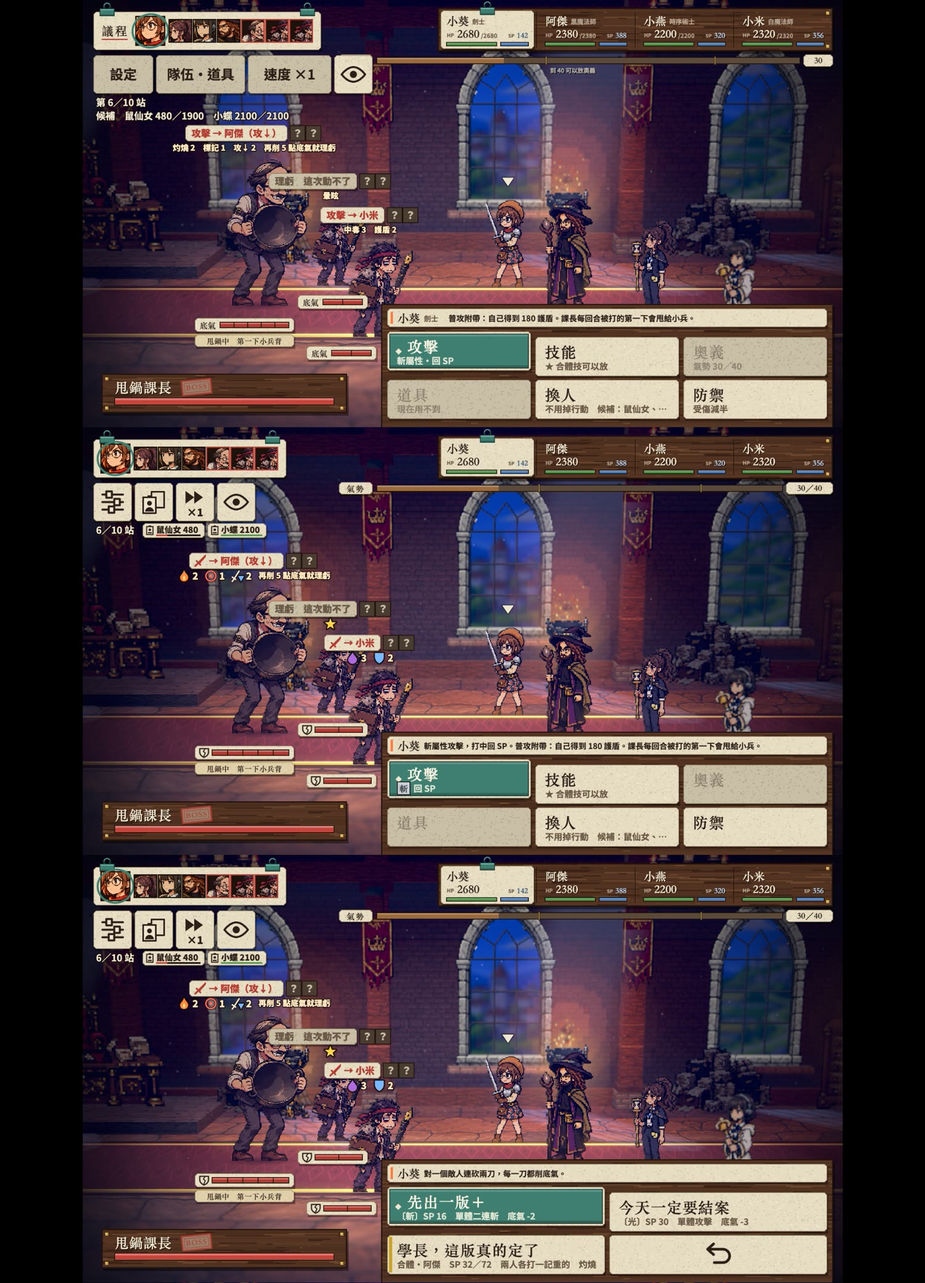
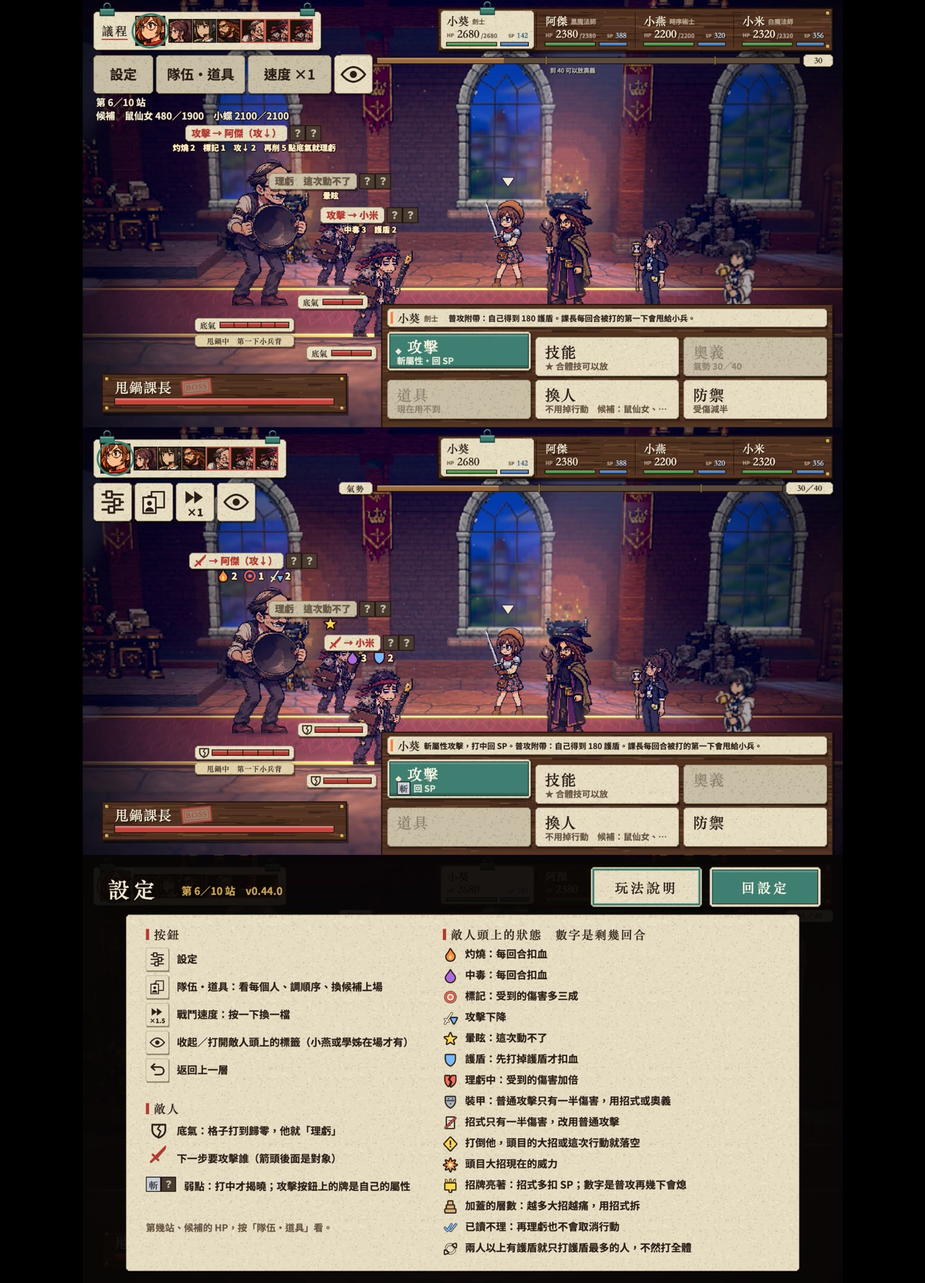
v0.44.0 狀態全部改圖示、設定加圖示說明頁；戰鬥畫面不顯示站數與候補

Changed region(s): [[0.092, 0.6562, 0.92, 1.0], [0.1227, 0.4062, 0.368, 0.4688]]

diff --git a/js/game.js b/js/game.js
@@ -588,15 +588,15 @@ function drawTip() { if (!tipNow || phase !== 'command') return; const k = Math.
   c.save(); c.globalAlpha = k; skin.paper(X, Y, Wd, Hh, { clips: [X + 60] }); c.fillStyle = RED; c.fillRect(X + 22, Y + 22, 7, 30); text(tipNow.title, X + 42, Y + 47, { px: 28, w: 900, fam: SERIF, col: INK, ls: 4 }); if (!LEAN) text('第一次遇到', X + Wd - 24, Y + 44, { px: 17, w: 700, align: 'right', col: INK2 });
   rows.forEach((l, i) => text(l, X + 28, Y + 86 + i * 32, { px: 22, w: 700, col: INK })); c.restore(); }
 // 敵方意圖：輪到玩家下指令時，每個敵人頭上貼一張小紙條寫下一步（攻擊誰、補誰、蓄力、大招），底下一行是身上的狀態與還剩幾回合。內容來自 rules.js 的 intent()，跟實際行動一致
-function drawIntents() { const placed = [], blind = !R.canSense(state), quiet = !blind && !!PREF.eyeOff, edge = LEAN ? Math.max(blind ? 340 : 444, benchChips(false) + 8) : blind ? 640 : 744; for (const f of R.foes(state)) { const it0 = R.intent(state, f); if (!it0 || (quiet && it0.kind !== 'ult')) continue; const hid = blind && it0.kind !== 'ult' && it0.kind !== 'stun', it = hid ? { kind: 'hid' } : blind && it0.kind === 'ult' ? { kind: 'ult', locks: it0.locks, lockN: it0.lockN, blind: true } : it0; const [px, py] = S.proj(f, 1), who = t => t ? (DEFS[t].enemy ? NAME[t] : DEFS[t].name) : '隨機';
+function drawIntents() { const placed = [], blind = !R.canSense(state), quiet = !blind && !!PREF.eyeOff, edge = LEAN ? (blind ? 340 : 444) : blind ? 640 : 744; for (const f of R.foes(state)) { const it0 = R.intent(state, f); if (!it0 || (quiet && it0.kind !== 'ult')) continue; const hid = blind && it0.kind !== 'ult' && it0.kind !== 'stun', it = hid ? { kind: 'hid' } : blind && it0.kind === 'ult' ? { kind: 'ult', locks: it0.locks, lockN: it0.lockN, blind: true } : it0; const [px, py] = S.proj(f, 1), who = t => t ? (DEFS[t].enemy ? NAME[t] : DEFS[t].name) : '隨機';
     const act = k => ({ atk: `攻擊${it.smoke ? '＋嗆煙' : ''} → ${who(it.target)}`, drain: `攻擊＋扣 SP${it.late ? '＋過號' : ''} → ${who(it.target)}`, heal: `補血${it.hype ? '＋打氣' : ''} → ${who(it.target)}` })[k], xs = (it.pack ? `（結伴　攻擊 ＋${it.pack * 20}%）` : '') + (it.hyped ? '（打氣　攻擊 ＋30%）' : '') + (it.grudge ? `（記了 ${it.grudge} 筆　攻擊 ＋${it.grudge * 25}%）` : '');
     const main = { phase2: '血剩一半：下一步變身（第二階段）', ward: `上護盾 → ${who(it.target)}`, notice: `補件通知：點名${who(it.target)}（下一次只打他）`, atk: (it.re ? '責任重新分配：' : '') + (it.heavy ? '重擊' : '攻擊') + (it.smoke ? '＋嗆煙' : it.hex ? '＋' + it.hex : '') + ` → ${who(it.target)}` + xs + (it.then ? `（${it.then}）` : ''), drain: act('drain') + xs, aoe: (it.re ? '責任重新分配：' : '') + '攻擊全體' + (it.hex ? '＋' + it.hex : ''), heal: act('heal'), charge: '下一步：蓄力', stun: '理虧　這次動不了',
       ult: it.blind ? '蓄力中' + (it.locks ? `（鎖還剩 ${it.locks.length} 個）` : '') : it.locks ? `大招：打全體（鎖還剩 ${it.locks.length} 個）` : it.wok ? `大招：只打${DEFS[it.wok].name}（他防禦就彈回去）` : it.proj || it.lost ? (it.lost ? '大招落空（專案沒人做）' : `大招：打全體（打倒${NAME[it.proj]}可阻止）`) : it.pow != null ? `大招：打全體（威力 ${Math.round(it.pow * 100)}%）` : '大招：打全體',
       echo: it.lost ? `附議落空（${NAME[it.echo]}已倒）` : `附議${NAME[it.echo]}：${act(it.act)}`, hid: '' }[it.kind] + (it.weak ? '（攻↓）' : '');
-    const col = it.kind === 'heal' ? '#1f6a5c' : it.kind === 'stun' || it.kind === 'hid' ? INK2 : RED, hot = it.kind === 'ult' || it.kind === 'charge' || it.kind === 'phase2', wkn = knownWeak(f), wkAll = blind || quiet ? [] : R.weakOf(state, f), cw = wkAll.length * 40 + (wkAll.length ? 10 : 0), sw = LEAN && !hid && (it.kind === 'atk' || it.kind === 'aoe') && main.startsWith('攻擊') ? 34 : 0, mainT = sw ? main.slice(2).trimStart() : main, w = mw(mainT, 24, 900) + 30 + sw, x0q = Math.max(8, Math.min(W - w - cw - 8, px - (w + cw) / 2)); let x = x0q; const minY = x < edge ? (LEAN ? 292 : 268) : 96, hitQ = () => placed.some(q => x < q[0] + q[2] + 8 && x + w + cw + 8 > q[0] && y < q[1] + 70 && y + 70 > q[1]); let y = Math.max(minY, py - 86);      // 左上角有一排按鈕（到 y 258），紙條不要疊上去
+    const col = it.kind === 'heal' ? '#1f6a5c' : it.kind === 'stun' || it.kind === 'hid' ? INK2 : RED, hot = it.kind === 'ult' || it.kind === 'charge' || it.kind === 'phase2', wkn = knownWeak(f), wkAll = blind || quiet ? [] : R.weakOf(state, f), cw = wkAll.length * 40 + (wkAll.length ? 10 : 0), sw = LEAN && !hid && (it.kind === 'atk' || it.kind === 'aoe') && main.startsWith('攻擊') ? 34 : 0, mainT = sw ? main.slice(2).trimStart() : main, w = mw(mainT, 24, 900) + 30 + sw, x0q = Math.max(8, Math.min(W - w - cw - 8, px - (w + cw) / 2)); let x = x0q; const minY = x < edge ? (LEAN ? 250 : 268) : 96, hitQ = () => placed.some(q => x < q[0] + q[2] + 8 && x + w + cw + 8 > q[0] && y < q[1] + 70 && y + 70 > q[1]); let y = Math.max(minY, py - 86);      // 左上角有一排按鈕（到 y 258），紙條不要疊上去
     while (hitQ() && y > minY + 4) y = Math.max(minY, y - 24); for (let k = 0; k < 8 && hitQ(); k++) y += 24; if (hitQ()) { x = Math.max(x, edge + 8); y = Math.max(96, py - 86); while (hitQ() && y > 100) y -= 24; }      // 左邊擠不下（鏡像內戰一次五個敵人）：往右移到按鈕旁邊再往上找空位
     placed.push([x, y, w + cw]);      // 紙條不互相蓋住
-    if (!hid) { skin.paper(x, y, w, 40, { old: it.kind === 'stun' }); if (hot) { c.fillStyle = '#6e1c16'; c.fillRect(x + 3, y + 3, w - 6, 34); } if (sw) { c.save(); c.strokeStyle = c.fillStyle = hot ? '#fff0e0' : col; c.lineCap = 'round'; c.lineJoin = 'round'; c.beginPath(); c.moveTo(x + 22, y + 24); c.lineTo(x + 38, y + 8); c.lineTo(x + 41, y + 5); c.lineTo(x + 40, y + 10); c.lineTo(x + 25, y + 27); c.closePath(); c.lineWidth = 2.5; c.stroke(); c.fill(); c.lineWidth = 4; c.beginPath(); c.moveTo(x + 18, y + 20); c.lineTo(x + 28, y + 30); c.stroke(); c.lineWidth = 4.5; c.beginPath(); c.moveTo(x + 15, y + 33); c.lineTo(x + 21, y + 27); c.stroke(); c.restore(); } text(mainT, x + 15 + sw, y + 29, { px: 24, w: 900, col: hot ? '#fff0e0' : col }); }
+    if (!hid) { skin.paper(x, y, w, 40, { old: it.kind === 'stun' }); if (hot) { c.fillStyle = '#6e1c16'; c.fillRect(x + 3, y + 3, w - 6, 34); } if (sw) swordGlyph(x, y, hot ? '#fff0e0' : col); text(mainT, x + 15 + sw, y + 29, { px: 24, w: 900, col: hot ? '#fff0e0' : col }); }
     wkAll.forEach((_, q) => typeChip(wkn[q] || null, x + w + 8 + q * 40, y + 2, 36));      // 弱點兩格：知道的寫屬性，不知道的是「？」
     if (it.locks) { const n0 = it.lockN, lx = x + (w + cw) / 2 - n0 * 23; for (let q = 0; q < n0; q++) { const t = it.locks[q]; if (t) typeChip(t, lx + q * 46, y - 48, 40); else { c.fillStyle = '#1c120c'; c.fillRect(lx + q * 46 - 2, y - 50, 44, 44); c.fillStyle = '#2f5c50'; c.fillRect(lx + q * 46, y - 48, 40, 40); text('✓', lx + q * 46 + 20, y - 18, { px: 30, w: 900, align: 'center', col: '#bff0dc' }); } } }
     const tags = []; if (state.burn[f] > 0) tags.push(`灼燒 ${state.burn[f]}`); if (state.mark[f] > 0) tags.push(`標記 ${state.mark[f]}`); if (state.atkDown[f] > 0) tags.push(`攻↓ ${state.atkDown[f]}`); if (state.poison[f] && state.poison[f].n > 0) tags.push(`中毒 ${state.poison[f].n}`); if (f !== 'boss' && state.stun[f]) tags.push('暈眩'); if (state.fward[f] > 0) tags.push(`護盾 ${state.fward[f]}`); if (it.re) tags.push('前排兩人以上有護盾 → 只打護盾最多的人；不然打全體'); if (f !== 'boss' && R.KINDS[state.kind[f]].armor) tags.push('裝甲'); if (f !== 'boss' && R.KINDS[state.kind[f]].dull) tags.push('招式減半');
@@ -605,7 +605,7 @@ function drawIntents() { const placed = [], blind = !R.canSense(state), quiet = 
     if (f === 'boss' && state.L.fee) tags.push(state.sign > 0 ? `招牌亮著：招式多扣 ${state.L.fee} SP（普攻再 ${state.sign} 下打熄）` : '招牌熄了'); if (f === 'boss' && state.L.layers) tags.push(`加蓋 ${state.layers} 層：大招 ${Math.round(R.roofPow(state) * 100)}%，用招式打他拆一層`);
     if (f === 'boss' && !state.broken && state.shield > 0) tags.push(`再削 ${state.shield} 點底氣就理虧`); if (f === 'boss' && state.broken) tags.push('理虧中：受傷加倍'); if (f === 'boss' && run.ot >= 5 && state.stunned1) tags.push('已讀不理：再理虧也不會取消行動');
     if (tags.length && !quiet && !LEAN) { const tl = tags.join('　'), tw = mw(tl, 20, 900); text(tl, Math.max(8 + tw / 2, Math.min(W - 8 - tw / 2, x + (w + cw) / 2)), y + 64, { px: 20, w: 900, align: 'center', col: '#ffe9c0', stroke: 'rgba(20,10,4,.85)', sw: 5 }); }
-    if (tags.length && !quiet && LEAN) { const ST = { 灼燒: 'burn', 標記: 'mark', '攻↓': 'down', 中毒: 'poison', 暈眩: 'stun', 護盾: 'ward' }, parts = tags.map(s => { const m = /^(\S+?)(?: (\d+))?$/.exec(s); return m && ST[m[1]] ? { ic: ST[m[1]], n: m[2] || '', w: 32 + (m[2] ? mw(m[2], 24, 900) + 5 : 0) } : { s, w: mw(s, 20, 900) }; }), tw = parts.reduce((a, q) => a + q.w, 0) + 16 * (parts.length - 1), o = { px: 20, w: 900, col: '#ffe9c0', stroke: 'rgba(20,10,4,.85)', sw: 5 }; let qx = Math.max(8, Math.min(W - 8 - tw, x + (w + cw) / 2 - tw / 2));
+    if (tags.length && !quiet && LEAN) { const parts = tags.map(tagPart).filter(Boolean), tw = parts.reduce((a, q) => a + q.w, 0) + 16 * (parts.length - 1), o = { px: 20, w: 900, col: '#ffe9c0', stroke: 'rgba(20,10,4,.85)', sw: 5 }; let qx = Math.max(8, Math.min(W - 8 - tw, x + (w + cw) / 2 - tw / 2));
       for (const q of parts) { if (q.ic) { stIcon(q.ic, qx, y + 42); if (q.n) text(q.n, qx + 36, y + 67, { ...o, px: 24 }); } else text(q.s, qx, y + 64, o); qx += q.w + 16; } } }
   // 我方每個人頭上的狀態（護盾、再生、攻擊提升、嗆到、背鍋、吸引攻擊）
   for (const h of R.FRONT) { if (!R.alive(state, h)) continue; const ls = []; if (state.wok === h && state.charging) ls.push(['背鍋中：防禦就彈回去', '#ffcf8a']); if (state.ward[h] > 0) ls.push([`護盾 ${state.ward[h]}`, '#9af0ff']); if (state.up[h] > 0) ls.push([`攻↑ ${state.up[h]}`, '#ffb0d0']); if (state.regen[h] && state.regen[h].n > 0) ls.push([`再生 ${state.regen[h].n}`, '#a8f0b0']); if (R.smoked(state, h)) ls.push(['嗆到：普攻減半', '#dfe8b8']); if (state.hmark[h] > 0) ls.push([`列管 ${state.hmark[h]}：受傷 ＋30%`, '#ffb0a0']); if (state.late[h]) ls.push(['過號：下回合最後才動', '#ffb0a0']); if (state.hpoison[h] && state.hpoison[h].n > 0) ls.push([`中毒 ${state.hpoison[h].n}`, '#b8e07a']); if (state.guardian === h) ls.push(['吸引攻擊中', '#9af0ff']);
@@ -852,7 +852,7 @@ const refreshPanel = () => { const f = focus; menu = { kind: 'panel', items: pan
 // 行程表右上、戰鬥左上各一顆「設定」。開關集中在這一頁、按鈕放大（原本的小開關在手機上只有 20px 高）；另外可以手動存檔、回到主畫面（進度留著）
 let conf = false, confAsk = false, confMsg = '', confHelp = false;
 const saveInfo = () => { try { const d = JSON.parse(localStorage.getItem(SAVE_KEY) || 'null'); if (!d || !d.at) return '還沒有存檔'; const x = new Date(d.at), p = n => String(n).padStart(2, '0'); return `上次存檔 ${p(x.getHours())}:${p(x.getMinutes())}`; } catch (e) { return ''; } };
-function confItems() { if (confHelp) return [{ label: '回設定', back: true, close: true, go: () => { confHelp = false; menu = { kind: 'conf', items: confItems() }; focus = 0; } }]; const fight = inBattle(), re = () => { menu = { kind: 'conf', items: confItems() }; focus = Math.min(focus, menu.items.length - 1); }, tog = (k, f) => () => { PREF[k] = !PREF[k]; PREF.set = true; savePref(); if (f) f(); uiSound('ok'); confAsk = false; re(); };
+function confItems() { if (confHelp) return [{ label: '回設定', back: true, close: true, go: () => { confHelp = false; menu = { kind: 'conf', items: confItems() }; focus = 0; } }, { label: confHelp === 'icons' ? '玩法說明' : '圖示說明', go: () => { confHelp = confHelp === 'icons' ? true : 'icons'; uiSound('ok'); menu = { kind: 'conf', items: confItems() }; focus = 1; } }]; const fight = inBattle(), re = () => { menu = { kind: 'conf', items: confItems() }; focus = Math.min(focus, menu.items.length - 1); }, tog = (k, f) => () => { PREF[k] = !PREF[k]; PREF.set = true; savePref(); if (f) f(); uiSound('ok'); confAsk = false; re(); };
   return [{ label: '聲音', val: PREF.mute ? '關' : '開', on: !PREF.mute, note: '配樂和音效', go: tog('mute', () => { master.gain.value = PREF.mute ? 0 : .9; }) },
     { label: '畫質', val: PREF.low ? '省電' : '一般', on: !PREF.low, note: '手機發燙或畫面會卡，就改省電', go: tog('low', applyQuality) },
     { label: '戰鬥速度', val: `×${SPEEDS[PREF.spd || 0]}`, on: true, note: '戰鬥演出速度，按一下換下一檔', go: () => { PREF.spd = ((PREF.spd || 0) + 1) % SPEEDS.length; savePref(); uiSound('ok'); confAsk = false; re(); } },
@@ -860,7 +860,7 @@ function confItems() { if (confHelp) return [{ label: '回設定', back: true, c
     { label: '立繪對話', val: PREF.noTalk ? '不演' : '要演', on: !PREF.noTalk, note: '開場、同事加入和離隊時的對話', go: tog('noTalk') },
     { label: '現在存檔', val: confMsg || saveInfo(), on: true, save: true, note: `存在第 ${slotNo() + 1} 個存檔位。平常會自動存：每到一站、戰鬥中每下一個指令`, go: () => { if (fight) saveBattle(); else saveGame(); confMsg = '存好了'; confAsk = false; snd(now, 'card', .6); re(); } },
     confAsk ? { label: '確定回主畫面', val: '再按一次', on: true, warn: true, note: '進度已經存好。下次在主畫面按「繼續上班」，從現在這裡接著玩', go: backToTitle } : { label: '回到主畫面', val: '', on: true, note: '會先存檔再回去；這一趟不會不見', go: () => { confAsk = true; uiSound('move'); re(); } },
-    { label: '玩法說明', val: '', on: true, note: '怎麼打、畫面上的名詞是什麼意思', go: () => { confHelp = true; confAsk = false; uiSound('ok'); re(); } },
+    { label: '玩法說明', val: '', on: true, note: '怎麼打、畫面上的名詞和圖示是什麼意思', go: () => { confHelp = inBattle() ? 'icons' : true; confAsk = false; uiSound('ok'); re(); } },
     { label: fight ? '回戰鬥' : '回行程表', back: true, close: true, go: closeConf }]; }
 function openConf() { conf = true; confAsk = false; confHelp = false; confMsg = ''; menu = { kind: 'conf', items: confItems() }; focus = menu.items.length - 1; }
 function closeConf() { conf = false; confAsk = false; confHelp = false; if (phase === 'hub') { menu = { kind: 'hub', items: hubItems() }; focus = 0; } else openMenu('root'); }
@@ -868,7 +868,7 @@ function closeConf() { conf = false; confAsk = false; confHelp = false; if (phas
 function backToTitle() { if (inBattle()) saveBattle(); else saveGame(); conf = false; confAsk = false; panel = false; sheet = null; todo.length = 0; menu = null; actor = null; S.film = null; S.stageCard = null; if (S.ui.length) S.ui.at(-1).t1 = Math.min(S.ui.at(-1).t1, now); SFX.clear(); NAV.length = 0; playMusic(null); snd(now, 'card', .6); saved = undefined; phase = 'title'; }
 function drawConf() { const fight = inBattle(); if (fight) { c.fillStyle = 'rgba(8,5,4,.93)'; c.fillRect(0, 0, W, H); } else drawTable(.62);
   text('設定', 64, 104, { px: 54, w: 900, fam: SERIF, col: CREAM, ls: 10, stroke: 'rgba(20,10,4,.8)', sw: 8 }); text(`第 ${run.floor + 1}／${R.MAP.length} 站　${VERSION}`, 250, 100, { px: 26, w: 700, col: BRASS });
-  if (confHelp) { const X0 = 110, Y0 = 150, Wd = W - 220; skin.paper(X0, Y0, Wd, 900); let y = Y0 + 58; for (const ln of HELP) { c.fillStyle = RED; c.fillRect(X0 + 40, y - 18, 10, 10); for (const s2 of wrap(ln, Wd - 130, 28)) { text(s2, X0 + 66, y, { px: 28, w: 700, col: INK }); y += 38; } y += 10; } return sheetBtn('回設定', 1584, 30, 280, 100, 0, true); }
+  if (confHelp) { const X0 = 110, Y0 = 150, Wd = W - 220; skin.paper(X0, Y0, Wd, 900); sheetBtn(confHelp === 'icons' ? '玩法說明' : '圖示說明', 1284, 30, 280, 100, 1, false); if (confHelp === 'icons') { drawLegend(X0, Y0, Wd); return sheetBtn('回設定', 1584, 30, 280, 100, 0, true); } let y = Y0 + 58; for (const ln of HELP) { c.fillStyle = RED; c.fillRect(X0 + 40, y - 18, 10, 10); for (const s2 of wrap(ln, Wd - 130, 28)) { text(s2, X0 + 66, y, { px: 28, w: 700, col: INK }); y += 38; } y += 10; } return sheetBtn('回設定', 1584, 30, 280, 100, 0, true); }
   const rows = menu.items.filter(m => !m.close), RW2 = 880, RH2 = 196, gx = 32, gy = 22, X0 = (W - RW2 * 2 - gx) / 2, Y0 = 160;
   rows.forEach((it, k) => { const i = menu.items.indexOf(it), x = X0 + (k % 2) * (RW2 + gx), y = Y0 + Math.floor(k / 2) * (RH2 + gy), pe = pressK(i), dn = pe >= 0, on = focus === i; zones.push({ x, y, w: RW2, h: RH2, i, off: false });
     c.save(); c.translate(0, dn ? 5 : 0); skin.paper(x, y, RW2, RH2, { old: !it.on }); if (on) { c.strokeStyle = TEAL; c.lineWidth = 6; c.strokeRect(x + 5, y + 5, RW2 - 10, RH2 - 10); }
@@ -939,7 +939,7 @@ function button(x, y, w, h, it, on, i) {
   const col = off ? 'rgba(43,31,24,.36)' : dn ? INK : sel ? '#fff8e6' : INK, lx = x + (sel ? 50 : 24); let px = h < 110 ? 38 : 44; font(px, 900, SERIF); while (px > 26 && c.measureText(it.label).width + it.label.length * 2 > x + w - lx - 14) { px -= 2; font(px, 900, SERIF); }
   const scol = it.warn ? (sel ? '#ffd0c8' : RED) : off ? 'rgba(43,31,24,.36)' : sel && !dn ? 'rgba(255,248,230,.85)' : INK2, three = it.sub2 && h < 110 && w < 400;      // 招式多、按鈕窄的時候：名字小一點，下面分兩行（屬性與 SP／效果），效果才不會被截掉
   if (three) { let p3 = 30; font(p3, 900, SERIF); while (p3 > 22 && c.measureText(it.label).width + it.label.length * 2 > x + w - lx - 12) { p3 -= 2; font(p3, 900, SERIF); } text(it.label, lx, y + 36, { px: p3, w: 900, fam: SERIF, col, ls: 2 }); text(fit(it.sub, w - 40, 20, 700), x + 22, y + 62, { px: 20, w: 700, col: scol }); text(fit(it.sub2, w - 40, 20, 700), x + 22, y + 86, { px: 20, w: 700, col: scol }); }
-  else if (LEAN && it.back && it.label === '返回') { const cx = x + w / 2 + (sel ? 12 : 0), cy = y + h / 2 - 2, k = Math.min(1, h / 116); c.save(); c.translate(cx, cy); c.scale(k, k); c.strokeStyle = col; c.lineWidth = 8; c.lineCap = 'round'; c.lineJoin = 'round'; c.beginPath(); c.moveTo(-12, 26); c.lineTo(14, 26); c.arc(14, 6, 20, Math.PI / 2, -Math.PI / 2, true); c.lineTo(-30, -14); c.stroke(); c.beginPath(); c.moveTo(-14, -30); c.lineTo(-32, -14); c.lineTo(-14, 2); c.stroke(); c.restore(); }      // 返回＝迴轉箭頭（使用者 11/21）
+  else if (LEAN && it.back && it.label === '返回') uturn(x + w / 2 + (sel ? 12 : 0), y + h / 2 - 2, Math.min(1, h / 116), col);      // 返回＝迴轉箭頭（使用者 11/21）
   else { text(it.label, lx, y + (h < 110 ? 50 : 64), { px: h < 110 ? Math.min(px, 38) : px, w: 900, fam: SERIF, col, ls: 2 });
     if (it.chip) typeChip(it.chip, x + 26, y + h - (h < 110 ? 40 : 46), 30, !off); if (it.sub) text(fit(it.sub + (it.sub2 ? '　' + it.sub2 : ''), w - 44 - (it.chip ? 42 : 0), 22, 700), x + 24 + (it.chip ? 42 : 0), y + h - (h < 110 ? 16 : 20), { px: 22, w: 700, col: scol }); }
   if (it.gold && !it.unite) skin.stamp('可發動', x + w - 52, y + 26, -.1, 17); if (it.unite) { c.fillStyle = off ? 'rgba(138,106,18,.35)' : '#c9a227'; c.fillRect(x + 4, y + 4, 8, h - 8); }      // 合體技：左邊一條金邊（章會蓋到名字）
@@ -948,25 +948,46 @@ function button(x, y, w, h, it, on, i) {
 // 小開關（聲音、畫質）
 // 眼睛開關（11/21 使用者：有感知時標籤太多，想要一顆小眼睛可以收起來）：只有小燕或學姊在場時才出現。閉眼（PREF.eyeOff）＝敵人頭上的紙條、弱點牌、狀態字都不畫，只留大招預告和鎖（漏看會滅隊）
 // 精簡版的工具按鈕：設定＝三條滑桿、隊伍・道具＝兩張識別證、速度＝快轉三角＋倍率。線條用程式畫，不用 emoji
-// 候補小卡（精簡版）：站數右邊一人一張，識別證圖示＋名字＋現在的 HP，底下一條細血條。draw=false 只算右邊界（敵情紙條要閃開）
-function benchChips(draw) { const bs = run.roster.filter(h => h !== 'vivi' && !R.HEROES.includes(h)); let x = 34 + mw(`${run.floor + 1}／${R.MAP.length} 站`, 24, 700) + 22; for (const h of bs) { const hp = run.hp[h], up = hp > 0, s = DEFS[h].name + (up ? ' ' + hp : ' 倒下'), w0 = Math.round(mw(s, 21, 900)) + 50;
-    if (draw) { const y = 242; skin.paper(x, y, w0, 36, { old: !up }); c.save(); c.globalAlpha = up ? 1 : .55; c.strokeStyle = INK; c.fillStyle = INK; c.lineWidth = 2.5; c.strokeRect(x + 10, y + 8, 16, 20); c.fillRect(x + 15, y + 5, 6, 4); c.beginPath(); c.arc(x + 18, y + 16, 3.2, 0, 7); c.fill(); c.fillRect(x + 13, y + 22, 10, 3); c.restore(); text(s, x + 34, y + 24, { px: 21, w: 900, col: up ? INK : INK2 }); if (up) { const k = Math.min(1, hp / R.STAT[h].hp); c.fillStyle = '#1d120b'; c.fillRect(x + 34, y + 28, w0 - 44, 4); c.fillStyle = k < .3 ? '#c8443a' : '#4f9a4a'; c.fillRect(x + 34, y + 28, Math.round((w0 - 44) * k), 4); } }
-    x += w0 + 8; } return bs.length ? x : 0; }
 // 敵人身上的狀態（精簡版）：火苗＝灼燒、靶心＝標記、劍加向下箭頭＝攻擊下降、水滴＝中毒、星星＝暈眩、盾牌＝護盾；旁邊的數字是剩幾回合
+function uturn(cx, cy, k, col) { c.save(); c.translate(cx, cy); c.scale(k, k); c.strokeStyle = col; c.lineWidth = 8; c.lineCap = 'round'; c.lineJoin = 'round'; c.beginPath(); c.moveTo(-12, 26); c.lineTo(14, 26); c.arc(14, 6, 20, Math.PI / 2, -Math.PI / 2, true); c.lineTo(-30, -14); c.stroke(); c.beginPath(); c.moveTo(-14, -30); c.lineTo(-32, -14); c.lineTo(-14, 2); c.stroke(); c.restore(); }      // 返回＝迴轉箭頭（使用者 11/21）
+function swordGlyph(x, y, col) { c.save(); c.strokeStyle = c.fillStyle = col; c.lineCap = 'round'; c.lineJoin = 'round'; c.beginPath(); c.moveTo(x + 22, y + 24); c.lineTo(x + 38, y + 8); c.lineTo(x + 41, y + 5); c.lineTo(x + 40, y + 10); c.lineTo(x + 25, y + 27); c.closePath(); c.lineWidth = 2.5; c.stroke(); c.fill(); c.lineWidth = 4; c.beginPath(); c.moveTo(x + 18, y + 20); c.lineTo(x + 28, y + 30); c.stroke(); c.lineWidth = 4.5; c.beginPath(); c.moveTo(x + 15, y + 33); c.lineTo(x + 21, y + 27); c.stroke(); c.restore(); }      // 敵人下一步是攻擊
+// 敵人頭上那一行狀態：每一句換成一個圖示（使用者 11/21：長句子都不用，弄個圖示，在設定裡說明）。回傳 null＝不畫（底氣還剩幾點，腳下的格子已經看得到）
+const TAG_IC = { 灼燒: 'burn', 標記: 'mark', '攻↓': 'down', 中毒: 'poison', 暈眩: 'stun', 護盾: 'ward', 裝甲: 'armor', 招式減半: 'half', 招牌熄了: 'signoff' };
+function tagPart(s) { let m; const ic = (k, n = '') => ({ ic: k, n: String(n), w: 32 + (n !== '' ? mw(String(n), 24, 900) + 5 : 0) });
+  if (/^再削 \d+ 點底氣就理虧$/.test(s)) return null; if ((m = /^(\S+?)(?: (\d+))?$/.exec(s)) && TAG_IC[m[1]]) return ic(TAG_IC[m[1]], m[2] || '');
+  if (s.startsWith('理虧中')) return ic('brk'); if (s.startsWith('臨時專案') || s.startsWith('被附議中')) return ic('key'); if ((m = /^大招威力 (\d+%)$/.exec(s))) return ic('pow', m[1]); if ((m = /^招牌亮著.*再 (\d+) 下/.exec(s))) return ic('sign', m[1]); if ((m = /^加蓋 (\d+) 層/.exec(s))) return ic('layers', m[1]); if (s.startsWith('已讀不理')) return ic('read'); if (s.startsWith('前排兩人以上有護盾')) return ic('re');
+  return { s, w: mw(s, 20, 900) }; }
+// 圖示說明（設定 → 玩法說明 → 圖示說明）：左邊按鈕與敵人身上固定的圖示，右邊狀態
+const LEGEND = [['burn', '灼燒：每回合扣血'], ['poison', '中毒：每回合扣血'], ['mark', '標記：受到的傷害多三成'], ['down', '攻擊下降'], ['stun', '暈眩：這次動不了'], ['ward', '護盾：先打掉護盾才扣血'], ['brk', '理虧中：受到的傷害加倍'], ['armor', '裝甲：普通攻擊只有一半傷害，用招式或奧義'], ['half', '招式只有一半傷害，改用普通攻擊'], ['key', '打倒他，頭目的大招或這次行動就落空'], ['pow', '頭目大招現在的威力'], ['sign', '招牌亮著：招式多扣 SP；數字是普攻再幾下會熄'], ['layers', '加蓋的層數：越多大招越痛，用招式拆'], ['read', '已讀不理：再理虧也不會取消行動'], ['re', '兩人以上有護盾就只打護盾最多的人，不然打全體']];
+function drawLegend(X0, Y0, Wd) { const lx = X0 + 50, rx = X0 + 800, head = (s, x, y) => { c.fillStyle = RED; c.fillRect(x, y - 24, 8, 28); text(s, x + 20, y, { px: 30, w: 900, fam: SERIF, col: INK, ls: 3 }); }, row = (s, x, y, wd) => text(fit(s, wd, 26, 700), x, y + 9, { px: 26, w: 700, col: INK }), mini = (f, x, y) => { c.save(); c.translate(x, y); c.scale(.6, .6); f(); c.restore(); };
+  head('按鈕', lx, Y0 + 60); [['conf', '設定'], ['panel', '隊伍・道具：看每個人、調順序、換候補上場'], ['spd', '戰鬥速度：按一下換一檔']].forEach(([k, s], i) => { mini(() => iconBtn(0, 0, k, 96, true), lx, Y0 + 84 + i * 70); row(s, lx + 78, Y0 + 113 + i * 70, 640); });
+  mini(() => eyeBtn(0, 0, 96, true), lx, Y0 + 294); row('收起／打開敵人頭上的標籤（小燕或學姊在場才有）', lx + 78, Y0 + 323, 640); mini(() => { skin.paper(0, 0, 96, 96); uturn(48, 46, .8, INK); }, lx, Y0 + 364); row('返回上一層', lx + 78, Y0 + 393, 640);
+  head('敵人', lx, Y0 + 500); c.save(); c.translate(lx - 2, Y0 + 520); c.scale(1.5, 1.5); skin.shieldGlyph(0, 0); c.restore(); row('底氣：格子打到歸零，他就「理虧」', lx + 78, Y0 + 547, 640); c.save(); c.translate(lx - 8, Y0 + 578); c.scale(1.4, 1.4); swordGlyph(0, 0, RED); c.restore(); row('下一步要攻擊誰（箭頭後面是對象）', lx + 78, Y0 + 617, 640);
+  typeChip('slash', lx + 2, Y0 + 664, 34); typeChip(null, lx + 40, Y0 + 664, 34); row('弱點：打中才揭曉；攻擊按鈕上的牌是自己的屬性', lx + 96, Y0 + 687, 622); text('第幾站、候補的 HP，按「隊伍・道具」看。', lx, Y0 + 800, { px: 24, w: 700, col: INK2 });
+  head('敵人頭上的狀態　數字是剩幾回合', rx, Y0 + 60); LEGEND.forEach(([k, s], i) => { stIcon(k, rx + 4, Y0 + 86 + i * 53); row(s, rx + 56, Y0 + 100 + i * 53, Wd - 800 - 100); }); }
 function stIcon(kind, x, y) { c.save(); c.translate(x, y); c.scale(1.25, 1.25); c.lineJoin = 'round'; c.lineCap = 'round'; const out = () => { c.strokeStyle = 'rgba(20,10,4,.9)'; c.lineWidth = 5; c.stroke(); }; c.beginPath();
   if (kind === 'burn') { c.moveTo(12, 1); c.bezierCurveTo(14, 8, 22, 11, 20, 18); c.quadraticCurveTo(18, 24, 12, 24); c.quadraticCurveTo(5, 24, 4, 17); c.bezierCurveTo(3, 12, 9, 10, 12, 1); out(); c.fillStyle = '#ff8a3c'; c.fill(); c.beginPath(); c.moveTo(12, 12); c.quadraticCurveTo(17, 18, 12, 22); c.quadraticCurveTo(7, 18, 12, 12); c.fillStyle = '#ffe08a'; c.fill(); }
   else if (kind === 'mark') { c.arc(12, 13, 10, 0, 7); out(); c.strokeStyle = '#ff6a5a'; c.lineWidth = 3; c.stroke(); c.beginPath(); c.arc(12, 13, 3.6, 0, 7); c.fillStyle = '#ff6a5a'; c.fill(); }
   else if (kind === 'down') { c.moveTo(4, 20); c.lineTo(15, 3); c.moveTo(1, 15); c.lineTo(8, 20); c.moveTo(1, 24); c.lineTo(4, 20); out(); c.strokeStyle = '#efe6cf'; c.lineWidth = 3; c.stroke(); c.beginPath(); c.moveTo(13, 13); c.lineTo(25, 13); c.lineTo(19, 24); c.closePath(); out(); c.fillStyle = '#7ab8ff'; c.fill(); }
   else if (kind === 'poison') { c.moveTo(12, 1); c.bezierCurveTo(13, 6, 21, 12, 21, 16); c.arc(12, 16, 9, 0, Math.PI); c.bezierCurveTo(3, 12, 11, 6, 12, 1); out(); c.fillStyle = '#b06adf'; c.fill(); }
   else if (kind === 'stun') { for (let i = 0; i < 10; i++) { const r = i % 2 ? 5 : 12, an = -Math.PI / 2 + i * Math.PI / 5; c[i ? 'lineTo' : 'moveTo'](12 + Math.cos(an) * r, 13 + Math.sin(an) * r); } c.closePath(); out(); c.fillStyle = '#ffd84a'; c.fill(); }
+  else if (kind === 'brk') { c.moveTo(2, 3); c.lineTo(10, 3); c.lineTo(7, 10); c.lineTo(11, 15); c.lineTo(8, 23); c.quadraticCurveTo(3, 19, 2, 12); c.closePath(); c.moveTo(15, 3); c.lineTo(22, 3); c.lineTo(22, 12); c.quadraticCurveTo(21, 19, 13, 24); c.lineTo(16, 15); c.lineTo(12, 10); c.closePath(); out(); c.fillStyle = '#ff6a5a'; c.fill(); }
+  else if (kind === 'armor') { c.moveTo(3, 3); c.lineTo(21, 3); c.lineTo(21, 12); c.quadraticCurveTo(20, 20, 12, 24); c.quadraticCurveTo(4, 20, 3, 12); c.closePath(); out(); c.fillStyle = '#aab2bd'; c.fill(); c.fillStyle = '#3a3f48'; c.fillRect(4, 9, 16, 2.5); c.fillRect(7, 5, 2.5, 2.5); c.fillRect(15, 5, 2.5, 2.5); c.fillRect(11, 15, 2.5, 2.5); }
+  else if (kind === 'half') { c.rect(5, 2, 14, 21); out(); c.fillStyle = '#efe6cf'; c.fill(); c.fillStyle = '#6a5846'; c.fillRect(8, 7, 8, 2); c.fillRect(8, 12, 8, 2); c.fillRect(8, 17, 5, 2); c.beginPath(); c.moveTo(2, 23); c.lineTo(22, 3); out(); c.strokeStyle = '#d84a5a'; c.lineWidth = 3; c.stroke(); }
+  else if (kind === 'key') { c.moveTo(12, 0); c.lineTo(24, 13); c.lineTo(12, 26); c.lineTo(0, 13); c.closePath(); out(); c.fillStyle = '#ffd84a'; c.fill(); c.fillStyle = '#2b1f18'; c.fillRect(10.5, 6, 3, 9); c.fillRect(10.5, 17, 3, 3); }
+  else if (kind === 'pow') { for (let i = 0; i < 16; i++) { const r = i % 2 ? 6 : 13, an = -Math.PI / 2 + i * Math.PI / 8; c[i ? 'lineTo' : 'moveTo'](12 + Math.cos(an) * r, 13 + Math.sin(an) * r); } c.closePath(); out(); c.fillStyle = '#ff9a4a'; c.fill(); c.beginPath(); c.arc(12, 13, 3.5, 0, 7); c.fillStyle = '#fff0c0'; c.fill(); }
+  else if (kind === 'sign' || kind === 'signoff') { const lit = kind === 'sign'; c.rect(2, 8, 20, 12); c.rect(10.5, 20, 3, 5); out(); c.fillStyle = lit ? '#ffd84a' : '#8a8478'; c.fill(); if (lit) { c.beginPath(); c.moveTo(5, 5); c.lineTo(3, 1); c.moveTo(12, 5); c.lineTo(12, 0); c.moveTo(19, 5); c.lineTo(21, 1); out(); c.strokeStyle = '#ffd84a'; c.lineWidth = 2.5; c.stroke(); } }
+  else if (kind === 'layers') { c.rect(2, 18, 20, 6); c.rect(5, 10, 14, 6); c.rect(8, 2, 8, 6); out(); c.fillStyle = '#d8b078'; c.fill(); }
+  else if (kind === 'read') { c.moveTo(1, 13); c.lineTo(6, 19); c.lineTo(14, 6); c.moveTo(10, 16); c.lineTo(13, 19); c.lineTo(23, 6); out(); c.strokeStyle = '#7ab8ff'; c.lineWidth = 3; c.stroke(); }
+  else if (kind === 're') { c.arc(12, 13, 9, Math.PI * 1.1, Math.PI * 1.9); c.moveTo(21, 16); c.arc(12, 13, 9, Math.PI * .1, Math.PI * .9); out(); c.strokeStyle = '#efe6cf'; c.lineWidth = 3; c.stroke(); c.beginPath(); c.moveTo(17, 5); c.lineTo(23, 10); c.lineTo(23, 3); c.closePath(); c.moveTo(7, 21); c.lineTo(1, 16); c.lineTo(1, 23); c.closePath(); out(); c.fillStyle = '#efe6cf'; c.fill(); }
   else { c.moveTo(3, 3); c.lineTo(21, 3); c.lineTo(21, 12); c.quadraticCurveTo(20, 20, 12, 24); c.quadraticCurveTo(4, 20, 3, 12); c.closePath(); out(); c.fillStyle = '#7ab8ff'; c.fill(); }
   c.restore(); }
-function iconBtn(x, y, key, s = 96) { const pe = pressed && pressed.opt === key ? 3 : 0, cx = x + s / 2, cy = y + s / 2 + pe; zones.push({ x, y, w: s, h: s, opt: key }); c.save(); c.translate(0, pe); skin.paper(x, y, s, s); c.restore(); c.save(); c.strokeStyle = INK; c.fillStyle = INK; c.lineWidth = 5; c.lineCap = 'round'; c.lineJoin = 'round';
+function iconBtn(x, y, key, s = 96, show = false) { const pe = !show && pressed && pressed.opt === key ? 3 : 0, cx = x + s / 2, cy = y + s / 2 + pe; if (!show) zones.push({ x, y, w: s, h: s, opt: key }); c.save(); c.translate(0, pe); skin.paper(x, y, s, s); c.restore(); c.save(); c.strokeStyle = INK; c.fillStyle = INK; c.lineWidth = 5; c.lineCap = 'round'; c.lineJoin = 'round';
   if (key === 'conf') { [[-19, -9], [0, 11], [19, -3]].forEach(([dy, kx]) => { c.beginPath(); c.moveTo(cx - 26, cy + dy); c.lineTo(cx + 26, cy + dy); c.stroke(); c.fillStyle = '#efe6cf'; c.fillRect(cx + kx - 7, cy + dy - 8, 14, 16); c.strokeRect(cx + kx - 7, cy + dy - 8, 14, 16); }); }
   else if (key === 'panel') { c.lineWidth = 4; c.strokeRect(cx - 6, cy - 26, 32, 40); c.fillStyle = '#efe6cf'; c.fillRect(cx - 27, cy - 12, 32, 40); c.strokeRect(cx - 27, cy - 12, 32, 40); c.fillStyle = INK; c.fillRect(cx - 16, cy - 17, 10, 5); c.beginPath(); c.arc(cx - 11, cy + 3, 6, 0, 7); c.fill(); c.beginPath(); c.arc(cx - 11, cy + 24, 11, Math.PI, 0); c.fill(); }
   else { for (const dx of [-24, -2]) { c.beginPath(); c.moveTo(cx + dx, cy - 28); c.lineTo(cx + dx + 22, cy - 12); c.lineTo(cx + dx, cy + 4); c.closePath(); c.fill(); } text(`×${SPEEDS[PREF.spd || 0]}`, cx, cy + 36, { px: 26, w: 900, align: 'center', col: INK }); }
   c.restore(); }
-function eyeBtn(x, y, s = 96) { const off = !!PREF.eyeOff, pe = pressed && pressed.opt === 'eye' ? 3 : 0, cx = x + s / 2, cy = y + s / 2 + pe, r = s * .31, q = (k, u) => { const tt = (k * .82 + 1) / 2; return [cx + k * r * .82 + u * k * r * .26, cy - r * .2 + 2 * tt * (1 - tt) * r * 1.1 + u * r * .34]; }; zones.push({ x, y, w: s, h: s, opt: 'eye' }); c.save(); c.translate(0, pe); skin.paper(x, y, s, s, { old: off }); c.restore(); c.save(); c.strokeStyle = INK; c.fillStyle = INK; c.lineWidth = 5; c.lineCap = 'round'; c.lineJoin = 'round'; c.globalAlpha = off ? .7 : 1; c.beginPath();
+function eyeBtn(x, y, s = 96, show = false) { const off = !show && !!PREF.eyeOff, pe = !show && pressed && pressed.opt === 'eye' ? 3 : 0, cx = x + s / 2, cy = y + s / 2 + pe, r = s * .31, q = (k, u) => { const tt = (k * .82 + 1) / 2; return [cx + k * r * .82 + u * k * r * .26, cy - r * .2 + 2 * tt * (1 - tt) * r * 1.1 + u * r * .34]; }; if (!show) zones.push({ x, y, w: s, h: s, opt: 'eye' }); c.save(); c.translate(0, pe); skin.paper(x, y, s, s, { old: off }); c.restore(); c.save(); c.strokeStyle = INK; c.fillStyle = INK; c.lineWidth = 5; c.lineCap = 'round'; c.lineJoin = 'round'; c.globalAlpha = off ? .7 : 1; c.beginPath();
   if (off) { c.moveTo(cx - r, cy - r * .2); c.quadraticCurveTo(cx, cy + r * .9, cx + r, cy - r * .2); c.stroke(); for (const k of [-1, -.36, .36, 1]) { c.beginPath(); c.moveTo(...q(k, 0)); c.lineTo(...q(k, 1)); c.stroke(); } }
   else { c.moveTo(cx - r, cy); c.quadraticCurveTo(cx, cy - r * 1.25, cx + r, cy); c.quadraticCurveTo(cx, cy + r * 1.25, cx - r, cy); c.closePath(); c.stroke(); c.beginPath(); c.arc(cx, cy, r * .3, 0, 7); c.fill(); } c.restore(); }
 function toggle(label, x, y, key, w = 190, h = 54) { const pe = pressed && pressed.opt === key ? (performance.now() - pressed.t) / PRESS_MS : -1, px = h >= 90 ? 34 : h >= 64 ? 30 : 26; zones.push({ x, y, w, h, opt: key }); c.save(); c.translate(0, pe >= 0 ? 3 : 0); skin.paper(x, y, w, h, { old: !!PREF[key] === (key === 'mute') }); text(label, x + w / 2, y + h / 2 + px * .38, { px, w: 700, align: 'center', col: INK }); c.restore(); }      // 小開關：高 54、字 26（手機上才按得到、看得清楚）
@@ -982,7 +1003,7 @@ function drawMenu() {
   menu.items.forEach((m, i) => button(x0 + (i % per) * (w + gap), y + (two && i >= per ? h + 10 : 0), w, h, LEAN && menu.kind === 'root' && (m.label === '防禦' || (m.label === '道具' && m.off) || (m.label === '奧義' && m.off && String(m.sub).startsWith('氣勢'))) ? { ...m, sub: '' } : m, i === focus, i));
   // 教學便條講到哪個指令，就把那顆按鈕框起來閃幾秒（便條在右上角，按鈕在右下角，不然對不起來）
   if (tipNow && menu.kind === 'root' && TIP_BTN[tipNow.key] && performance.now() - tipNow.t < 7000) { const i = menu.items.findIndex(m => m.label === TIP_BTN[tipNow.key] && !m.off); if (i >= 0) { const bx = x0 + (i % per) * (w + gap), by = y + (two && i >= per ? h + 10 : 0), k = .5 + .5 * Math.sin(performance.now() / 160); c.save(); c.strokeStyle = `rgba(226,176,74,${.45 + .55 * k})`; c.lineWidth = 6; c.strokeRect(bx - 5 - k * 3, by - 5 - k * 3, w + 10 + k * 6, h + 10 + k * 6); c.restore(); } }
-  if (LEAN) { iconBtn(28, 140, 'conf'); iconBtn(132, 140, 'panel'); iconBtn(236, 140, 'spd'); if (R.canSense(state)) eyeBtn(340, 140); } else { toggle('設定', 28, 140, 'conf', 150, 96); toggle('隊伍・道具', 186, 140, 'panel', 224, 96); toggle(`速度 ×${SPEEDS[PREF.spd || 0]}`, 418, 140, 'spd', 210, 96); if (R.canSense(state)) eyeBtn(636, 140); } text(LEAN ? `${run.floor + 1}／${R.MAP.length} 站` : `第 ${run.floor + 1}／${R.MAP.length} 站`, 34, 268, { px: 24, w: 700, col: CREAM, stroke: 'rgba(20,10,4,.8)', sw: 5 }); if (LEAN) benchChips(true); else { const bs = run.roster.filter(h => h !== 'vivi' && !R.HEROES.includes(h)); if (bs.length) text('候補　' + bs.map(h => `${DEFS[h].name} ${run.hp[h] > 0 ? `${run.hp[h]}／${R.STAT[h].hp}` : '倒下'}`).join('　'), 34, 302, { px: 24, w: 700, col: CREAM, stroke: 'rgba(20,10,4,.8)', sw: 5 }); }
+  if (LEAN) { iconBtn(28, 140, 'conf'); iconBtn(132, 140, 'panel'); iconBtn(236, 140, 'spd'); if (R.canSense(state)) eyeBtn(340, 140); } else { toggle('設定', 28, 140, 'conf', 150, 96); toggle('隊伍・道具', 186, 140, 'panel', 224, 96); toggle(`速度 ×${SPEEDS[PREF.spd || 0]}`, 418, 140, 'spd', 210, 96); if (R.canSense(state)) eyeBtn(636, 140); } if (!LEAN) { text(`第 ${run.floor + 1}／${R.MAP.length} 站`, 34, 268, { px: 24, w: 700, col: CREAM, stroke: 'rgba(20,10,4,.8)', sw: 5 }); const bs = run.roster.filter(h => h !== 'vivi' && !R.HEROES.includes(h)); if (bs.length) text('候補　' + bs.map(h => `${DEFS[h].name} ${run.hp[h] > 0 ? `${run.hp[h]}／${R.STAT[h].hp}` : '倒下'}`).join('　'), 34, 302, { px: 24, w: 700, col: CREAM, stroke: 'rgba(20,10,4,.8)', sw: 5 }); }
   // 目標頭上的箭頭
   if (it.target) { const [tx, ty] = S.proj(it.target, 1), foe = DEFS[it.target].enemy, col = foe ? '#ff6a5a' : '#8cf09a', by = ty - (foe ? 20 : 40) + Math.sin(now * 9) * (foe ? 4 : 6), th = foe ? 18 : 26, tw = foe ? 15 : 19; c.fillStyle = col; c.strokeStyle = 'rgba(10,8,18,.9)'; c.lineWidth = 3; c.beginPath(); c.moveTo(tx - tw, by - th); c.lineTo(tx + tw, by - th); c.lineTo(tx, by); c.closePath(); c.stroke(); c.fill(); if (!foe && !LEAN) text('目標', tx, by - 34, { px: 22, w: 900, align: 'center', col, stroke: 'rgba(10,8,18,.9)', sw: 5, ls: 3 }); }      // 敵人頭上已經有意圖紙條，箭頭縮小放在紙條下面、不寫字
   // 現在是誰：頭上的箭頭
@@ -1293,8 +1314,8 @@ function drawReport() { const k = report; if (!k || now < k.t0) return; zones = 
 }
 // 封面上另外開的兩張紙：玩法說明、更新紀錄（新版本往最上面加一筆，留最近八筆）
 let titleInfo = null, bootClosed = false;
-const HELP = ['一個人出發（第一場有人陪），照行程表一站一站走到最後；路上招募同事，最多帶六人，四人站前排、一人在後排支援', '打贏戰鬥可以三選一強化，還會拿到報帳額度；岔路自己選：休息或特訓、福利、救人、找新同事、採買', '攻擊有六種屬性。敵人頭上兩格是弱點，打中才揭曉：傷害多三成、氣勢多加', '普通攻擊會回 SP，每個人還有自己的附帶效果；招式花 SP；特定夥伴同場可以放合體技', '行動會累積全隊共用的「氣勢」，夠了就能放奧義', '把頭目的「底氣」打到歸零，他會理虧；頭目蓄力時用對屬性拆他頭上的鎖，大招會變弱', '敵人的弱點和下一步，要有小燕或學姊在場才看得到', '連攜：冰打灼燒、火打中毒、打屬性打暈眩、光打攻擊下降、暗打標記、斬打護盾，各有額外效果', '點開行程表左邊的隊伍：調順序、看每個人的素質、招式與被動；戰鬥中也能開，也能把候補換上場', '名詞：「底氣」是頭目頭上的紅格，打到歸零他就「理虧」；「議程」是左上角的行動順序；同標籤的小物湊三個是「套裝」；「福委會」那一站可以白拿一個強化', '候補每回合回三分之一 HP 和 SP；前排有人倒下，候補會自動補上', '敵人頭上的小圖示：火苗是灼燒、靶心是標記、劍加向下箭頭是攻擊下降、水滴是中毒、星星是暈眩、盾牌是護盾，旁邊的數字是剩幾回合；腳下裂開的盾牌是「底氣」', '進度會自動存到這台裝置（戰鬥打到一半也會存），下次打開可以「繼續上班」；有三個存檔位'];
-const CHANGES = [['v0.44.0', '戰鬥畫面精簡：設定、隊伍・道具、速度、返回改成圖示；拿掉「議程」「目標」等不必要的字', '敵人的狀態改成小圖示加回合數（火苗＝灼燒、靶心＝標記…，設定裡的玩法說明有對照）；底氣改成盾牌圖示', '候補改成小卡；攻擊按鈕直接顯示屬性牌'], ['v0.43.0', '後來加入的 11 位同事放奧義時會喊出自己的台詞（小燕、茶茶、學姊、小蝶、鼠仙女、許許、小安、黑輪、阿強、老油條、阿哲）', '鼠仙女的奧義改唸愛的咒語；小葵換了比較甜的聲音', '看得到敵情時，左上角多一顆眼睛：點一下把敵人頭上的標籤收起來（大招預告照樣顯示）'], ['v0.42.0', '開局選的招式變成「拿手招」：一開始就是＋版（效果 ＋25%、SP －20%）', '說明文字整理過一遍，講得更直接'], ['v0.41.0', '福利社：「內部調派」名冊滿了也能用（調來再決定誰回公司）；素質強化多了體力、速度', '三個存檔位（標題畫面左下切換）；設定頁可以看玩法說明', '候補的 HP 直接看得到；血剩三成以下會擺出受傷的姿勢；可以直接點我方角色用道具', '鼠仙女新招「老鼠們，總動員」、Kevin＋小米的合體技；阿哲、小安的招式有自己的圖示'], ['v0.40.0', '設定頁：聲音、畫質、戰鬥速度、地圖、立繪對話集中在一頁，按鈕放大', '可以手動存檔、回到主畫面（進度會留著，按「繼續上班」接著玩）'], ['v0.39.0', '超級化（二週目起）：氣勢滿 100 時，小葵、阿傑、阿強、老油條、學姊、阿哲、小安可以變身', '三回合內傷害 ×2、受傷 −30%、速度 +30%、招式不花 SP，HP 回滿；每人每場一次', '七個人都有超級版造型：金髮金眼，阿強沒帽子、頭頂禿'], ['v0.38.0', '福利社：行程表上隨時可以用報帳額度買道具、抽同事、買全隊素質 ＋1', '開場對話：主角和第一場陪打的人先聊幾句；同事加入時也會說一句', '開局每一頁都有「回上一頁」；結案報告的「再玩一次」不再重新讀取', '修正：用雞排便當卻飛出珍珠奶茶的圖'], ['v0.37.0', '有人倒下，候補會自動補上；候補每回合回三分之一 HP 和 SP', '小米、許許、Vivi 各多一招復活，候補區倒下的人也救得到', '後排應援改成前排每人回 60 SP；阿傑的招式順便降敵人攻擊', '行程表上也能用珍珠奶茶、黑咖啡'] ];
+const HELP = ['一個人出發（第一場有人陪），照行程表一站一站走到最後；路上招募同事，最多帶六人，四人站前排、一人在後排支援', '打贏戰鬥可以三選一強化，還會拿到報帳額度；岔路自己選：休息或特訓、福利、救人、找新同事、採買', '攻擊有六種屬性。敵人頭上兩格是弱點，打中才揭曉：傷害多三成、氣勢多加', '普通攻擊會回 SP，每個人還有自己的附帶效果；招式花 SP；特定夥伴同場可以放合體技', '行動會累積全隊共用的「氣勢」，夠了就能放奧義', '把頭目的「底氣」打到歸零，他會理虧；頭目蓄力時用對屬性拆他頭上的鎖，大招會變弱', '敵人的弱點和下一步，要有小燕或學姊在場才看得到', '連攜：冰打灼燒、火打中毒、打屬性打暈眩、光打攻擊下降、暗打標記、斬打護盾，各有額外效果', '點開行程表左邊的隊伍：調順序、看每個人的素質、招式與被動；戰鬥中也能開，也能把候補換上場', '名詞：「底氣」是頭目頭上的紅格，打到歸零他就「理虧」；「議程」是左上角的行動順序；同標籤的小物湊三個是「套裝」；「福委會」那一站可以白拿一個強化', '候補每回合回三分之一 HP 和 SP；前排有人倒下，候補會自動補上', '戰鬥畫面上的小圖示是什麼意思，按右上角的「圖示說明」看對照', '進度會自動存到這台裝置（戰鬥打到一半也會存），下次打開可以「繼續上班」；有三個存檔位'];
+const CHANGES = [['v0.44.0', '戰鬥畫面精簡：設定、隊伍・道具、速度、返回改成圖示；拿掉「議程」「目標」等不必要的字', '敵人頭上的狀態全部改成小圖示加回合數；底氣改成盾牌圖示；攻擊按鈕直接顯示屬性牌', '圖示的意思：設定 → 玩法說明 → 圖示說明（戰鬥中按設定會直接開這一頁）', '戰鬥畫面不再顯示第幾站和候補，按「隊伍・道具」看'], ['v0.43.0', '後來加入的 11 位同事放奧義時會喊出自己的台詞（小燕、茶茶、學姊、小蝶、鼠仙女、許許、小安、黑輪、阿強、老油條、阿哲）', '鼠仙女的奧義改唸愛的咒語；小葵換了比較甜的聲音', '看得到敵情時，左上角多一顆眼睛：點一下把敵人頭上的標籤收起來（大招預告照樣顯示）'], ['v0.42.0', '開局選的招式變成「拿手招」：一開始就是＋版（效果 ＋25%、SP －20%）', '說明文字整理過一遍，講得更直接'], ['v0.41.0', '福利社：「內部調派」名冊滿了也能用（調來再決定誰回公司）；素質強化多了體力、速度', '三個存檔位（標題畫面左下切換）；設定頁可以看玩法說明', '候補的 HP 直接看得到；血剩三成以下會擺出受傷的姿勢；可以直接點我方角色用道具', '鼠仙女新招「老鼠們，總動員」、Kevin＋小米的合體技；阿哲、小安的招式有自己的圖示'], ['v0.40.0', '設定頁：聲音、畫質、戰鬥速度、地圖、立繪對話集中在一頁，按鈕放大', '可以手動存檔、回到主畫面（進度會留著，按「繼續上班」接著玩）'], ['v0.39.0', '超級化（二週目起）：氣勢滿 100 時，小葵、阿傑、阿強、老油條、學姊、阿哲、小安可以變身', '三回合內傷害 ×2、受傷 −30%、速度 +30%、招式不花 SP，HP 回滿；每人每場一次', '七個人都有超級版造型：金髮金眼，阿強沒帽子、頭頂禿'], ['v0.38.0', '福利社：行程表上隨時可以用報帳額度買道具、抽同事、買全隊素質 ＋1', '開場對話：主角和第一場陪打的人先聊幾句；同事加入時也會說一句', '開局每一頁都有「回上一頁」；結案報告的「再玩一次」不再重新讀取', '修正：用雞排便當卻飛出珍珠奶茶的圖'], ['v0.37.0', '有人倒下，候補會自動補上；候補每回合回三分之一 HP 和 SP', '小米、許許、Vivi 各多一招復活，候補區倒下的人也救得到', '後排應援改成前排每人回 60 SP；阿傑的招式順便降敵人攻擊', '行程表上也能用珍珠奶茶、黑咖啡'] ];
 function drawOverlay() {
   if (phase === 'title' || phase === 'load') { zones = []; if (!bootClosed) { bootClosed = true; window.__bootDone && window.__bootDone(); }      // 標題畫面畫得出來就收掉開機畫面（聲音與其餘立繪還在背景載，按鈕的位置會寫進度）
     // 封面：整張主視覺（art/map/cover.jpg），上面只放標題與按鈕；玩法說明、更新紀錄另外開

diff --git a/js/skin.js b/js/skin.js
@@ -77,11 +77,13 @@ export function makeSkin(c, A, S, D) {
     paper(X + 1247 - NW, Y - 4, NW, 30, { tint: ok ? 'rgba(217,166,46,.35)' : null }); text(HUD.lean && !ok ? `${Math.round(v)}／${MO.ult}` : String(Math.round(v)), X + 1247 - NW / 2, Y + 19, { px: 22, w: 900, align: 'center' });
     if (!HUD.lean) text(ok ? '可以放奧義' : `到 ${MO.ult} 可以放奧義`, bx + bw * MO.ult / MO.max + 10, Y + 42, { px: 15, w: 700, fam: SANS, col: ok ? '#ffd84a' : 'rgba(239,230,207,.7)', shadow: 'rgba(0,0,0,.8)' }); c.restore();
   }
+  // 底氣的圖示：裂開的盾牌（精簡版；設定裡的圖示說明也用這個）
+  function shieldGlyph(x, y) { c.save(); c.strokeStyle = INK; c.lineWidth = 3; c.lineJoin = 'round'; c.beginPath(); c.moveTo(x + 12, y + 7); c.lineTo(x + 34, y + 7); c.lineTo(x + 34, y + 17); c.quadraticCurveTo(x + 33, y + 25, x + 23, y + 29); c.quadraticCurveTo(x + 13, y + 25, x + 12, y + 17); c.closePath(); c.stroke(); c.lineWidth = 2.5; c.beginPath(); c.moveTo(x + 25, y + 8); c.lineTo(x + 21, y + 14); c.lineTo(x + 26, y + 18); c.lineTo(x + 22, y + 27); c.stroke(); c.restore(); }
   // ---------- 敵人腳下：底氣條；歸零蓋「理虧」。左下：魔王木牌 ----------
   function enemies(t, a, MAXSH) {
     if (a <= 0) return; c.save(); c.globalAlpha *= a; const guard = stepAt(S.guard, t, false);
     for (const id of S.foes) { const u = S.units[id]; if (!u.alive) continue; const boss = id === 'boss', [px, py] = S.proj(id, 0), sh = stepAt(S.shield[id], t, 0), mx = boss ? MAXSH : 2, w = boss ? 250 : 176, y = Math.round(py + (boss ? 30 : 22)), x = Math.min(Math.round(px - w / 2 - (boss ? 40 : 0)), !boss && y > 840 ? 742 - w : 9999);      // 前排小兵的底氣條不要壓到下方的指令列
-      const bx0 = HUD.lean ? 44 : 64, bw0 = w - bx0 - 14; paper(x, y, w, 34); if (HUD.lean) { c.save(); c.strokeStyle = INK; c.lineWidth = 3; c.lineJoin = 'round'; c.beginPath(); c.moveTo(x + 12, y + 7); c.lineTo(x + 34, y + 7); c.lineTo(x + 34, y + 17); c.quadraticCurveTo(x + 33, y + 25, x + 23, y + 29); c.quadraticCurveTo(x + 13, y + 25, x + 12, y + 17); c.closePath(); c.stroke(); c.lineWidth = 2.5; c.beginPath(); c.moveTo(x + 25, y + 8); c.lineTo(x + 21, y + 14); c.lineTo(x + 26, y + 18); c.lineTo(x + 22, y + 27); c.stroke(); c.restore(); } else text('底氣', x + 12, y + 25, { px: 20, w: 900 }); bar(x + bx0, y + 11, bw0, 12, sh / mx, '#b23a30');
+      const bx0 = HUD.lean ? 44 : 64, bw0 = w - bx0 - 14; paper(x, y, w, 34); if (HUD.lean) shieldGlyph(x, y); else text('底氣', x + 12, y + 25, { px: 20, w: 900 }); bar(x + bx0, y + 11, bw0, 12, sh / mx, '#b23a30');
       for (let k = 1; k < mx; k++) { c.fillStyle = '#1d120b'; c.fillRect(x + bx0 + bw0 * k / mx - 1, y + 9, 2, 16); }
       if (sh <= 0) { const el = lastChange(S.shield[id], t); stamp('理虧', x + w - 46, y + 12, -.2, 30, el < .2 ? lerp(2.2, 1, easeOut(el / .2)) : 1); }
       if (guard && boss) { paper(x, y + 42, w, 30, { tint: 'rgba(178,58,48,.14)' }); text('護衛中　傷害無效', x + w / 2, y + 64, { px: 18, w: 900, align: 'center', col: RED, ls: 1 }); }
@@ -99,6 +101,6 @@ export function makeSkin(c, A, S, D) {
   // 大印章：魔王底氣歸零的那一下，一顆「理虧」蓋在他身上
   function bigStamps(t) { for (const k of S.stamps || []) { const el = t - k.t; if (el < 0 || el > 1.5) continue; const [px, py] = S.proj(k.id, .55), sc = el < .14 ? lerp(3.2, 1, easeOut(el / .14)) : 1, sh = el < .4 ? Math.sin(el * 90) * 7 * (1 - el / .4) : 0;
       c.save(); c.globalAlpha = sat((1.5 - el) / .3); stamp('理虧', px + sh, py, -.16, 130, sc); text('底氣歸零　下次行動取消', px, py + 130, { px: 30, w: 900, align: 'center', col: CREAM, shadow: 'rgba(20,6,6,.9)', ls: 4 }); c.restore(); } }
-  return { wood, paper, clip, stamp, bar, face, text, measure, order, party, momentum, enemies, boxes,
+  return { wood, paper, clip, stamp, bar, face, text, measure, order, party, momentum, enemies, boxes, shieldGlyph,
     hud(t, a, cardOn, mo, MO, maxShield) { enemies(t, a, maxShield); party(t, a); momentum(t, a, mo, MO); order(t, a * (1 - cardOn)); bigStamps(t); } };
 }

diff --git a/docs/TODO.md b/docs/TODO.md
@@ -37,7 +37,7 @@ GPT 的完整討論在 `design/gpt_discussion.md`。
 - [x] v0.43.0（11/21，已上線）大招配音：11 位同事的奧義台詞接上了（`VO_ULT`），實機確認有播
 - [x] 眼睛開關（11/21，併在 v0.43.0，已上線）：有感知時左上角一顆眼睛，閉眼收起敵人頭上的標籤，只留大招預告和鎖
 - [x] 鼠仙女改唸愛的咒語（Kurumin，`fairy_5`）、小葵換成 Stacy（使用者聽完選 B），v0.43.0 一起上線
-- [x] v0.44.0（11/21，本機、還沒上線）戰鬥畫面精簡：議程兩字拿掉、設定／隊伍・道具／速度／返回改圖示、底氣盾牌、攻擊小劍、狀態圖示＋回合數、候補小卡、攻擊屬性牌；`?hud1` 看舊版。GPT 討論在 `design/hud_icons/`。沒做：觸控範圍加大到 108、敵情兩列固定位置
+- [x] v0.44.0（11/21，已上線）戰鬥畫面精簡：議程兩字拿掉、設定／隊伍・道具／速度／返回改圖示、底氣盾牌、攻擊小劍、狀態全部改圖示＋回合數、站數與候補不顯示、攻擊屬性牌、設定裡有圖示說明頁；`?hud1` 看舊版。GPT 討論在 `design/hud_icons/`。沒做：觸控範圍加大到 108、敵情兩列固定位置
 - [ ] 大招配音等使用者聽：聽檢短片 `out/vo/上班旅人_奧義配音聽檢.mp4`，每句兩版，要換版本改 `VO_ULT` 的數字；許許最不激昂、老油條最長，可能要重配
 - [ ] 版面類還沒動：前排小兵被指令面板蓋住；隊伍框與提示紙條擋到地圖站名
 - [x] 三支玩法影片（11/21）：① 超級化 51 秒、② 怎麼玩（總體）62 秒、③ 戰鬥 46 秒；工具 `tools/howto/`，成品 `0720/雲端/上班旅人玩法影片/`。聲音沒有人耳確認過
